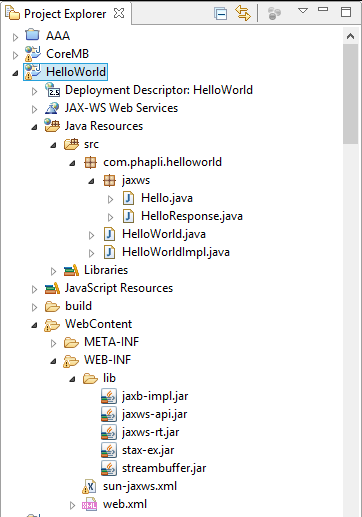
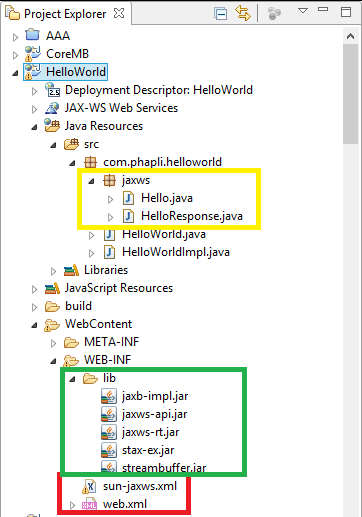
post 2
finish

Changed region(s): [[0.1519, 0.7118, 0.6989, 1.0], [0.2127, 0.3095, 0.7293, 0.4642]]

diff --git a/_posts/java/2015-07-24-jax-ws-webservice-example.md b/_posts/java/2015-07-24-jax-ws-webservice-example.md
@@ -89,64 +89,75 @@ public class HelloWorldImpl implements HelloWorld {
 </web-app>
 {% endhighlight %}
 
+6. To generate a jax-ws, we need some libraries. 
+	* jaxb-impl.jar
+	* jaxws-api.jar
+	* jaxws-rt.jar
+	* saaj-impl.jar
+	* stax-ex.jar
+	* streambuffer.jar
+	Please add them to "__WebContent/WEB-INF/lib__"
+	
+7. Using wsgen (a tool of JDK) to generate Web service. Open terminal, go to project folder, and run this script.
 
+{% highlight bash %}
+wsgen -s src -d build/classes -cp build/classes com.phapli.helloworld.HelloWorldImpl
+{% endhighlight %}
 
-In Eclipse IDE, menu bar, select "__Help__" >> "__Install New Software...__" , put the Hibernate Url here.
+	![wsgen](/resources/2015-07-24-jax-ws-webservice-example/3.PNG "wsgen")
+8. Refresh your eclipse project to see the result. 
+	![server project](/resources/2015-07-24-jax-ws-webservice-example/4.PNG "server project")
+	
+9. Run project in server (such as tomcat, jboss ...). Go to http://localhost:8080/HelloWorld/HelloWorld to access the Web service.
+	![wsdl](/resources/2015-07-24-jax-ws-webservice-example/6.PNG "wsdl")
+	
+## Create Client.
 
-![Install Hibernate Plugin](/resources/2015-07-22-using-hibernate-reverse-engineering-in-eclipse/1.PNG "Install Hibernate Plugin")
+1. In Eclipse IDE, menu bar, select "__File__" >> "__New__" >> "__Project__", choose "__Java Project__".
 
-Following the instruction to complete installing.
-Finally, restart Eclipse to take effect.
+	![New Java Project](/resources/2015-07-24-jax-ws-webservice-example/5.PNG "New Java Project")
+	
+2. Use wsimport (a tool of JDK) to generate Stub from wsdl url. Open terminal, go to project folder, and run this script.
+	
+{% highlight bash %}
+wsimport -d src -extension -keep -p com.tomica.coremb -XadditionalHeaders http://localhost:8080/HelloWorld/HelloWorld?wsdl
+{% endhighlight %}
 
-##New Hibernate Configuration
+	![wsimport](/resources/2015-07-24-jax-ws-webservice-example/7.PNG "wsimport")	
 
-1. Open Hibernate Perspective in Eclipse.
+3. Create Client class with main method to test this service.	
+{% highlight java %}
+package com.phapli.client;
+
+import java.net.MalformedURLException;
+import java.net.URL;
+
+import com.phapli.helloworld.HelloWorld;
+import com.phapli.helloworld.HelloWorldImplService;
+
+public class Client {
+
+	public static void main(String[] args) {
+		try {
+			// init webservice port
+			HelloWorldImplService service = new HelloWorldImplService(new URL(
+					"http://localhost:8080/HelloWorld/HelloWorld?wsdl"));
+			HelloWorld port = service.getHelloWorldImplPort();
+			
+			// call hello method
+			String response = port.hello("phapli");
+
+			System.out.println(response);
+
+		} catch (MalformedURLException e) {
+			e.printStackTrace();
+		}
+	}
+
+}
+{% endhighlight %}	
  
-	Select "__Windows__" >> "__Open Perspective__" >> "__Others...__" , choose "__Hibernate__".
-	
-2. New a hibernate configuration.
-
-	1. In Hibernate Perspective, right click and select "__Add Configuration...__" or click on "__+__" button.
-	
-	![New Hibernate Configuration](/resources/2015-07-22-using-hibernate-reverse-engineering-in-eclipse/2.PNG "New Hibernate Configuration")
-	
-	2. In "__Edit Configuration__" dialog box,
-		* In "__Project__" box, click on the "__Browse...__" button to select your project.
-		* In "__Database Connection__" box, click "__New...__" button to create your database settings.
-		* In "__Configuration File__" box, click "__Setup__" button to create a new or use existing "__Hibernate configuration file__", hibernate.cfg.xml.
-		
-		![Open Hibernate Perspective](/resources/2015-07-22-using-hibernate-reverse-engineering-in-eclipse/3.PNG "Open Hibernate Perspective")
-		
-		*hibernate.cfg.xml example for MySql connection*
-		
-		![hibernate.cfg.xml](/resources/2015-07-22-using-hibernate-reverse-engineering-in-eclipse/4.PNG "hibernate.cfg.xml")
-		
-		* Refresh to see the result (all tables from your database)
-		
-		![Tables](/resources/2015-07-22-using-hibernate-reverse-engineering-in-eclipse/5.PNG "Tables")
-		
-		
-3. Run Hibernate Code Generation.
-	1. In "__Hibernate Perspective__", click "__Hibernate code generation__" icon (see below figure) and select "__Hibernate Code Generation Configuration__"
-	
-	![Hibernate Code Generation](/resources/2015-07-22-using-hibernate-reverse-engineering-in-eclipse/6.PNG "Hibernate Code Generation")
-
-	2. Create a new configuration, fill "__name__" field, select "__Console Configuration__" at the configuration which you have created, browse to "__Output directory__" and check option "__Reverse engineer from JDBC Connection__".
-
-	![Input](/resources/2015-07-22-using-hibernate-reverse-engineering-in-eclipse/7.PNG "Input")
-	
-	3. In "__Exporters__" tab, select options that you want to generate.
-	
-	![Generate](/resources/2015-07-22-using-hibernate-reverse-engineering-in-eclipse/8.PNG "Generate")
-
-	4. Run, and see the result.
-	
-	![Result](/resources/2015-07-22-using-hibernate-reverse-engineering-in-eclipse/9.PNG "Result")
-
+4. Run this class to see the result.
 
 ##Reference
-<http://www.hibernate.org/subprojects/tools.html>
-
-<http://www.jboss.org/tools/download>
-
-<http://www.mkyong.com/hibernate/how-to-generate-code-with-hibernate-tools/>
+<http://www.mkyong.com/webservices/jax-ws/deploy-jax-ws-web-services-on-tomcat/>
